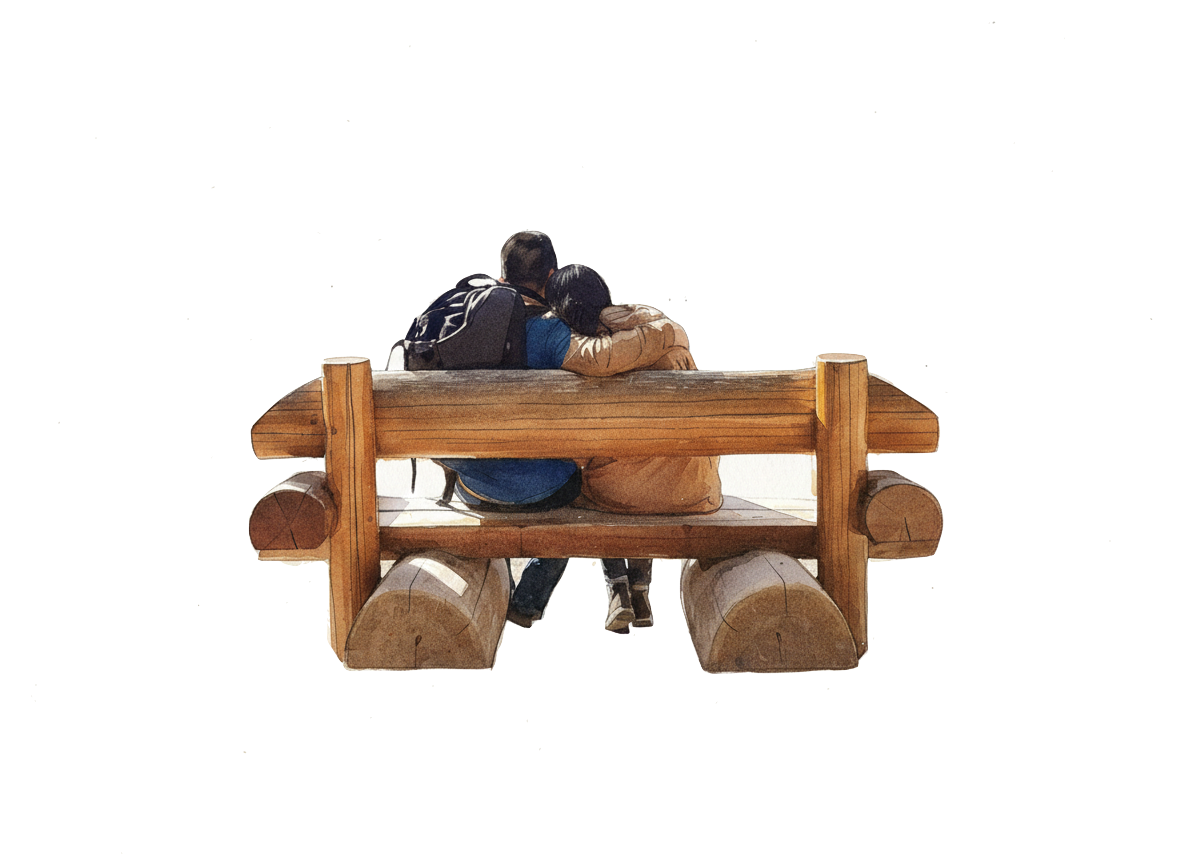
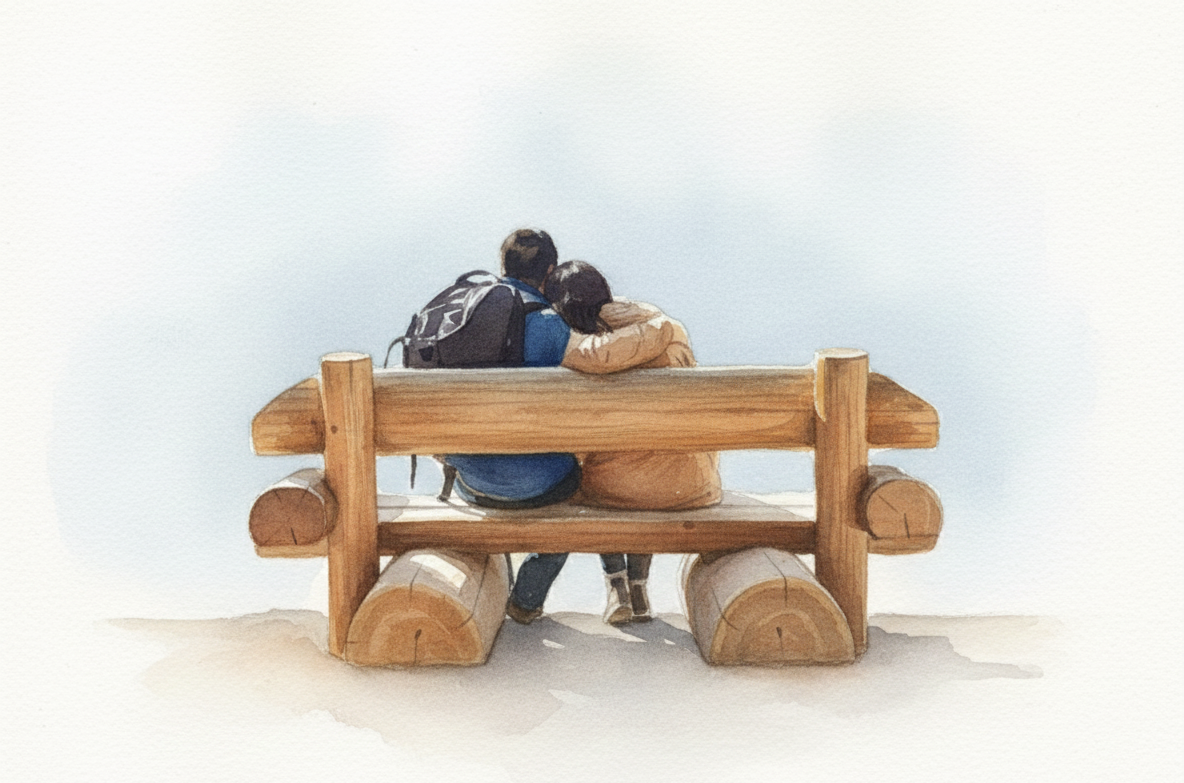
Experimenting placement and Updated Couple image

diff --git a/components/Experience/WatercolorWorld.tsx b/components/Experience/WatercolorWorld.tsx
@@ -1,65 +1,111 @@
 // @ts-nocheck
-import { useRef } from 'react'
+import { useRef, useMemo } from 'react'
 import { Image, useScroll } from '@react-three/drei'
-import { useFrame } from '@react-three/fiber'
+import { useFrame, useThree } from '@react-three/fiber'
+import * as THREE from 'three'
 
 export default function WatercolorWorld() {
   const scroll = useScroll()
+  const { camera, size } = useThree() 
+  
   const kidsRef = useRef()
   const phoneRef = useRef()
   const benchRef = useRef()
+  const mountainRef = useRef()
 
+  // --- CONTAIN MATH (Keep exactly as is) ---
+  const bgDepth = -20 
+  const distance = camera.position.z - bgDepth 
+  const vFov = (camera.fov * Math.PI) / 180
+  const visibleHeight = 2 * Math.tan(vFov / 2) * distance
+  const visibleWidth = visibleHeight * (size.width / size.height)
+  const imageAspectRatio = 1.5 
+  const screenAspectRatio = size.width / size.height
+
+  let scaleW, scaleH
+  if (screenAspectRatio > imageAspectRatio) {
+    scaleH = visibleHeight
+    scaleW = scaleH * imageAspectRatio
+  } else {
+    scaleW = visibleWidth
+    scaleH = scaleW / imageAspectRatio
+  }
+  
   useFrame(() => {
-    const r1 = scroll.range(0.2, 0.4) // Kids running in
-    const r2 = scroll.range(0.6, 0.8) // Phone appears
-    const r3 = scroll.range(0.8, 1.0) // Final zoom blur
+    const r1 = scroll.range(0.2, 0.4)
+    const r2 = scroll.range(0.6, 0.8)
+    const r3 = scroll.range(0.8, 1.0)
 
-    // KIDS RUNNING: Move from left (-10) to the bench (-1)
+    // KIDS ANIMATION
     if (kidsRef.current) {
-      // 1. HORIZONTAL: Move from left (-10) to the bench (-1)
-      kidsRef.current.position.x = -10 + (r1 * 9)
-
-      // 2. DEPTH: Move "away" from the camera toward the bench
-      kidsRef.current.position.z = 2 - (r1 * 1.5) 
-
-      // 3. THE HOP: Bouncing up and down as they run
-      // Math.abs(Math.sin) creates a consistent "bouncing ball" motion
-      kidsRef.current.position.y = -1.5 + Math.abs(Math.sin(r1 * 20) * 0.2)
+      kidsRef.current.position.x = -12 + (r1 * 12)
+      kidsRef.current.position.z = 2 - (r1 * 1.5)
       
-      // 4. THE LEAN: Tilting forward slightly to show momentum
+      // FIX: Base height changed from -1.5 to 1.7
+      // (Bench is at 2.2, so 1.7 puts kids' feet on the ground nicely)
+      kidsRef.current.position.y = 1.7 + Math.abs(Math.sin(r1 * 20) * 0.2)
+      
       kidsRef.current.rotation.z = Math.sin(r1 * 20) * 0.05
     }
-    // THE SELFIE POP: Phone appears in Dad's hand area
+
+    // PHONE POP
     if (phoneRef.current) {
-      phoneRef.current.scale.setScalar(r2 * 1.2) // Pops from size 0 to 1.2
+      phoneRef.current.scale.setScalar(r2 * 1.2)
       phoneRef.current.material.opacity = r2
     }
     
-    // BLUR EFFECT: Bench fades as we "enter" the phone
+    // BENCH FADE
     if (benchRef.current) {
       benchRef.current.material.opacity = 1 - (r3 * 0.5)
     }
   })
 
   return (
-    <group>
+    // GROUP POSITION: Keep this! It's working perfectly.
+    <group position={[0, -4.8, 0]}>
+      
       <ambientLight intensity={1.5} />
 
-      {/* BACKGROUND: Mountains */}
-      <Image url="/images/mountains_only.png" scale={[25, 12]} position={[0, 0, -5]} transparent />
+      {/* BACKGROUND */}
+      <Image 
+        ref={mountainRef}
+        url="/images/mountains_only.png" 
+        scale={[scaleW, scaleH]} 
+        position={[0, 6, bgDepth]} 
+        transparent 
+      />
 
-      {/* MIDDLE GROUND: Couple on Bench */}
-      <Image ref={benchRef} url="/images/couple_bench.png" scale={[6, 4]} position={[0, -1, 0]} transparent />
+      {/* MIDDLE GROUND: Couple
+          Position: 2.2 looks perfect in your screenshot.
+      */}
+      <Image 
+        ref={benchRef} 
+        url="/images/couple_bench.png" 
+        scale={[7, 4.6]} 
+        position={[0, 2.2, 0]} 
+        transparent 
+      />
 
-      {/* FOREGROUND: Kids (Starts off-screen left) */}
-      <Image ref={kidsRef} url="/images/kids_running.png" scale={[3, 2]} position={[-10, -1.5, 2]} transparent />
+      {/* FOREGROUND: Kids
+          Position: 1.7 (Just below bench seat level)
+      */}
+      <Image 
+        ref={kidsRef} 
+        url="/images/kids_running.png" 
+        scale={[3, 2]} 
+        position={[-12, 1.7, 2]} 
+        transparent 
+      />
 
-      {/* THE "SELFIE" PHONE: Positioned near Dad's hand */}
+      {/* PHONE FRAME 
+          Position: 3.5 (Approx 1.3 units above the bench seat, near Dad's hand)
+          Your previous 5.5 might be too high (floating in sky).
+      */}
       <Image 
         ref={phoneRef} 
         url="/images/phone_frame.png" 
         scale={[0, 0]} 
-        position={[0.5, -0.2, 1]} 
+        position={[0.5, 3.5, 1]} 
         transparent 
         opacity={0}
       />

diff --git a/components/Experience/SceneController.tsx b/components/Experience/SceneController.tsx
@@ -7,21 +7,31 @@ export default function SceneController() {
   const scroll = useScroll()
 
   useFrame((state) => {
-    // r1: First 40% - The Camera Orbits
-    // r2: Next 60% - The Camera Dives
     const r1 = scroll.range(0, 0.4)
     const r2 = scroll.range(0.4, 0.6)
 
-    // Orbital movement
+    // 1. Orbital movement
     const angle = r1 * Math.PI * 0.15 
     state.camera.position.x = Math.sin(angle) * 10
     state.camera.position.z = Math.cos(angle) * 10
     
-    // The "Dive" target - targeting the lower-right area of Carlo
-    const zoomPosition = new THREE.Vector3(0.8, -0.5, 2.5) 
+    // --- THE FIX STARTS HERE ---
+    
+    // CALCULATING THE TARGET:
+    // Your Group is at -4.8. Your Couple is at +2.2 inside it.
+    // Real World Height = -4.8 + 2.2 = -2.6.
+    
+    // 2. The "Dive" target (The Phone)
+    // We set Y to -1.3 (Slightly above the couple's faces for the phone)
+    // Z is 2.5 (Close up)
+    const zoomPosition = new THREE.Vector3(0.5, -1.3, 2.5) 
+    
     state.camera.position.lerp(zoomPosition, r2)
     
-    state.camera.lookAt(0, 0, 0)
+    // 3. Look At Target (The Couple)
+    // We lock the camera's focus exactly on their World Height (-2.6)
+    // This creates a perfectly flat, straight-on angle. No looking down.
+    state.camera.lookAt(0, -2.6, 0)
   })
 
   return null
